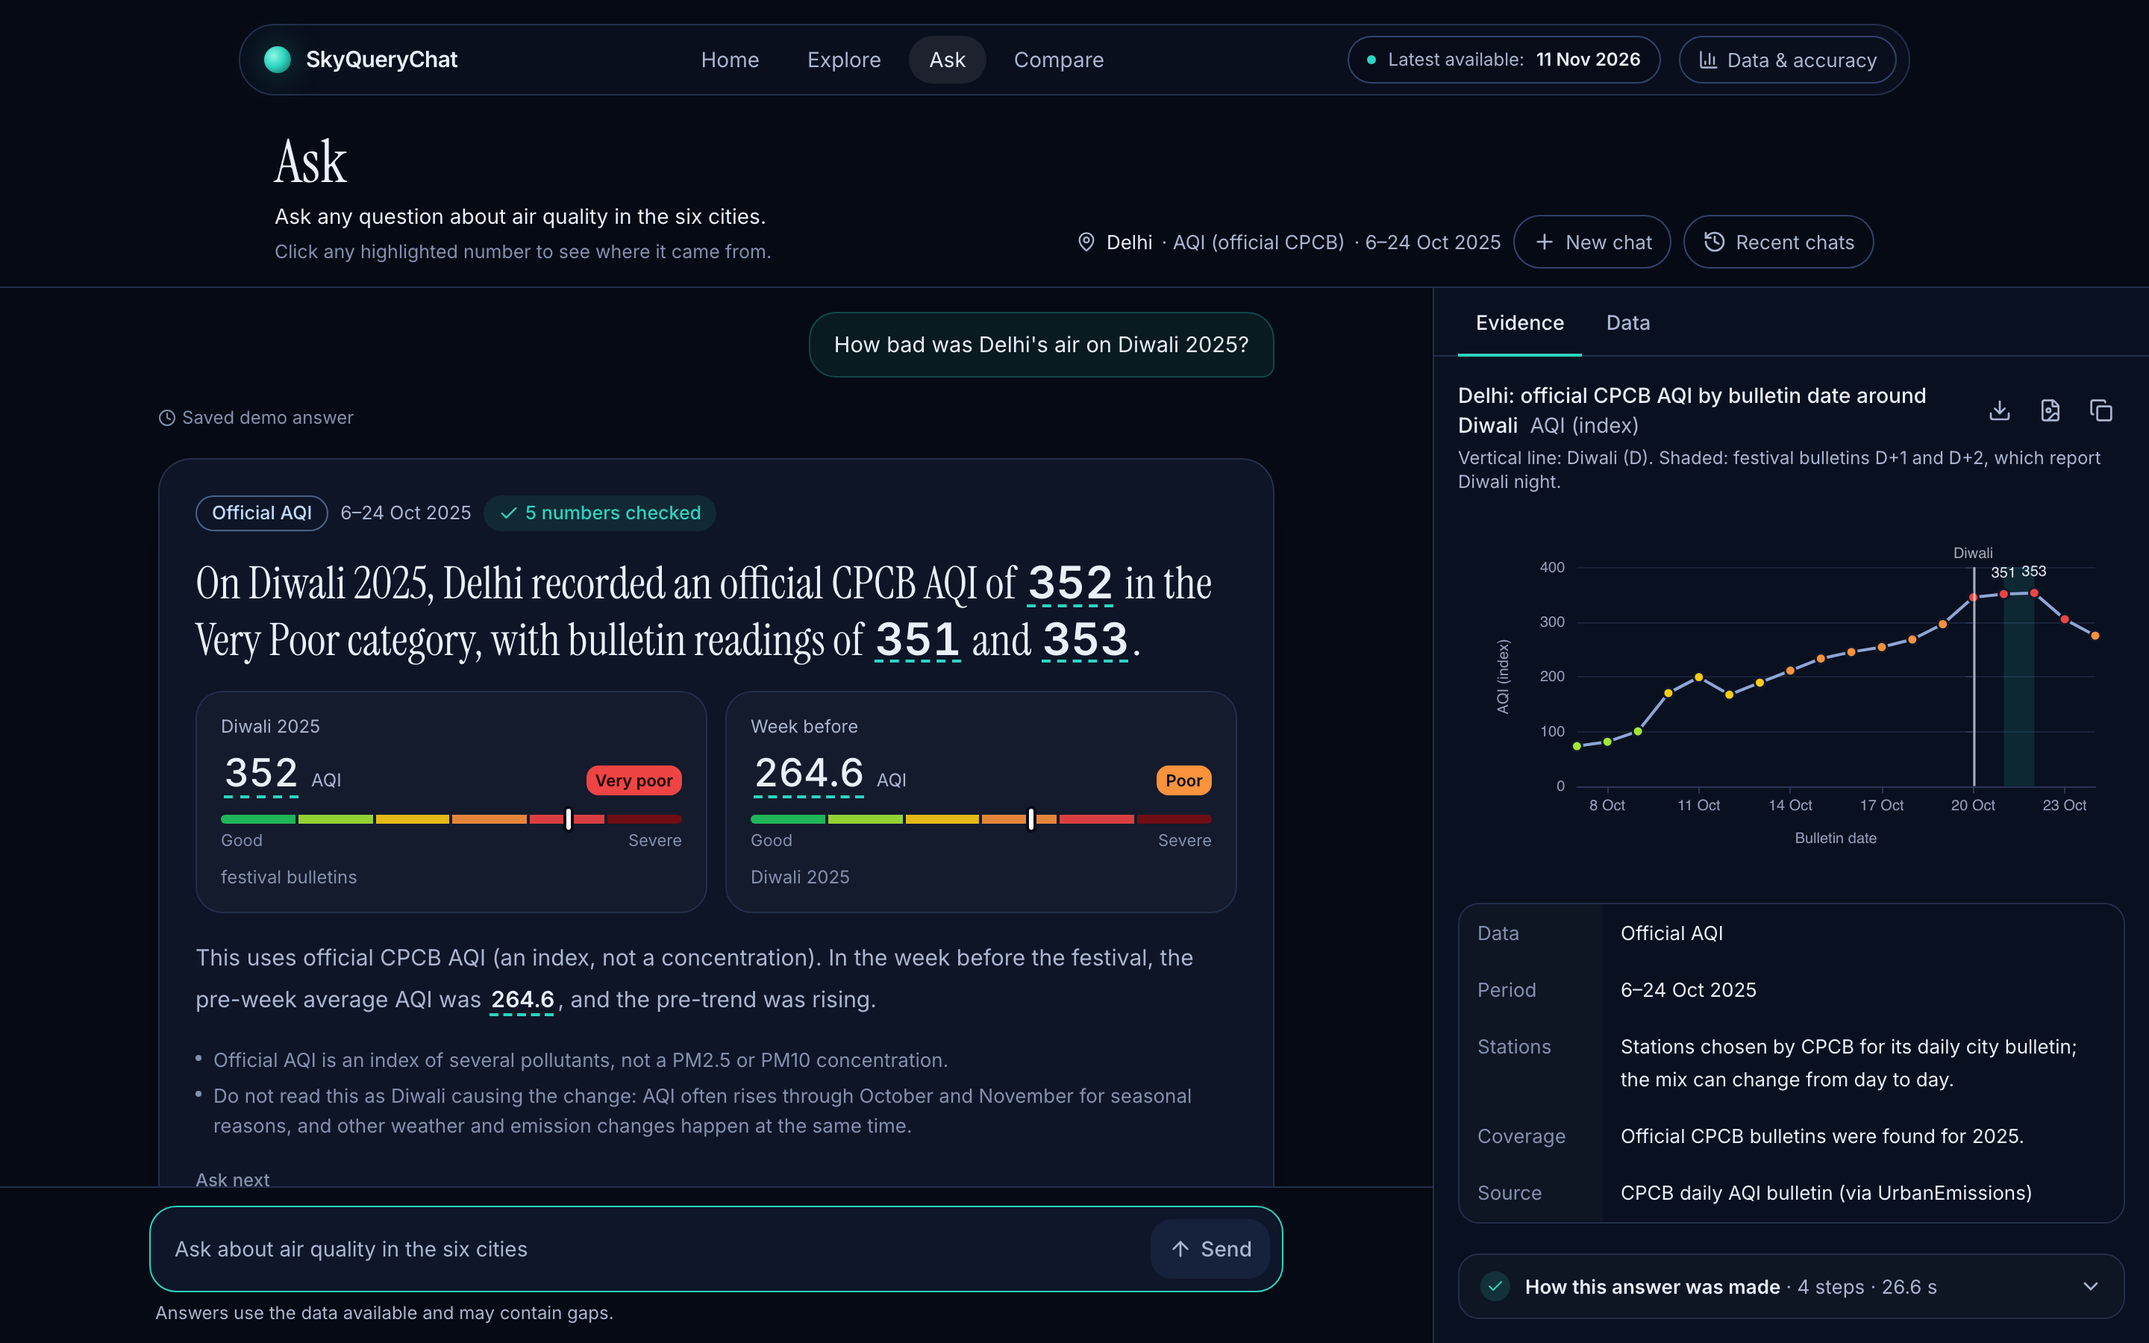
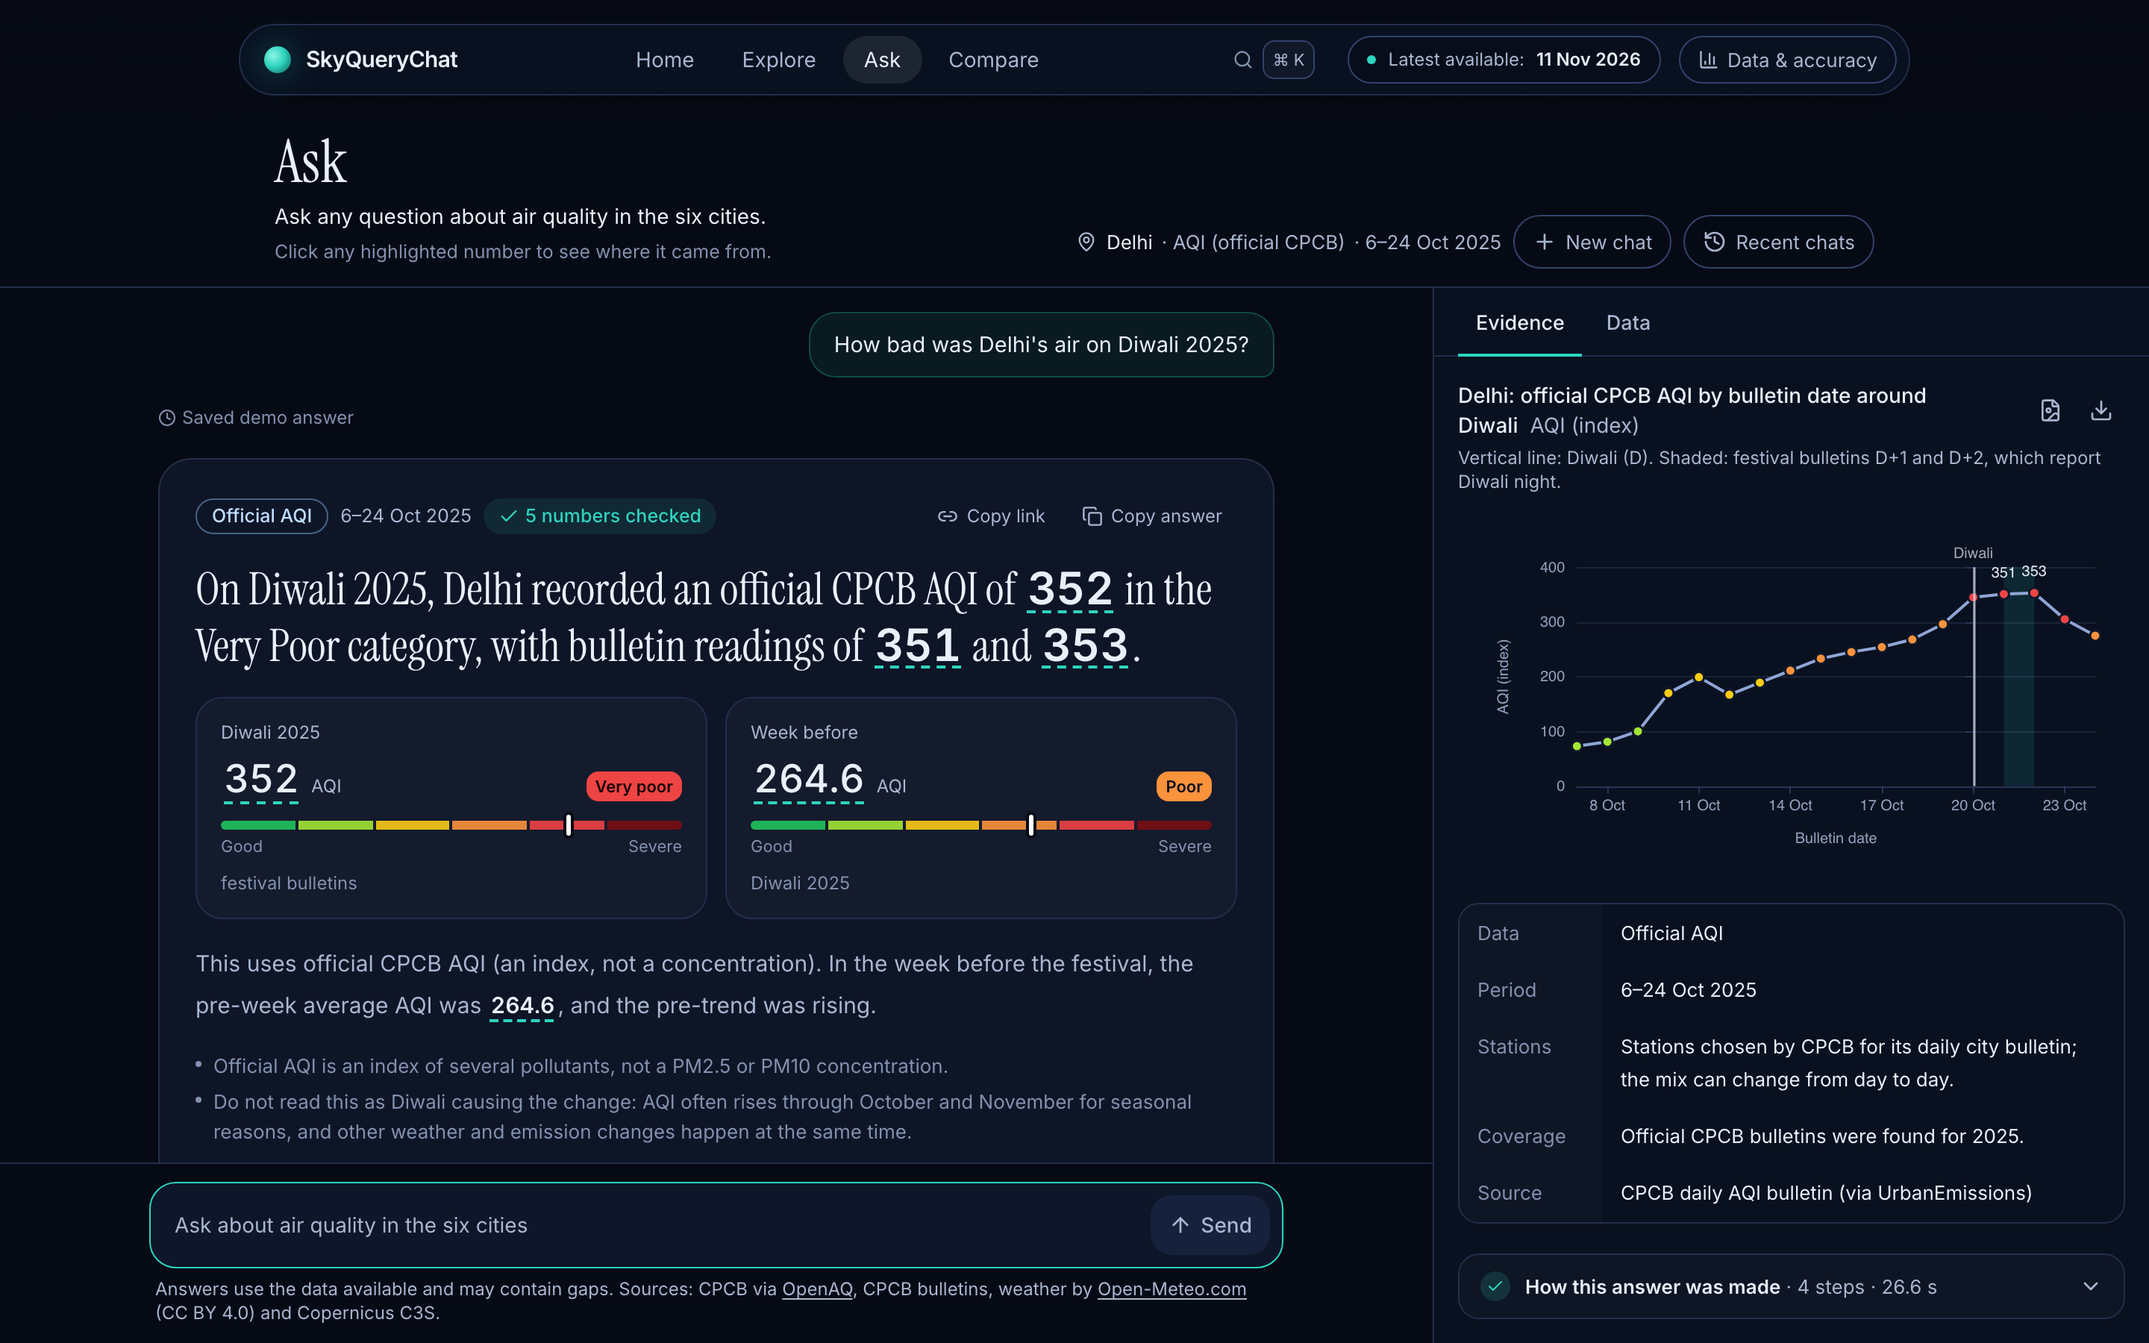
Polish the review findings, keep Home light on load and refresh the screenshots and README

diff --git a/frontend/src/components/explore/explore-map.tsx b/frontend/src/components/explore/explore-map.tsx
@@ -16,6 +16,13 @@ import type { ExploreData } from "@/lib/types";
 import { shortName } from "./panels";
 
 type Pad = { top: number; bottom: number; left: number; right: number };
+
+/** Padding that always leaves room on the canvas (MapLibre refuses to fit, and stays put, when padding exceeds it). */
+function fitPad(p: Pad, w: number, h: number, room = 120): Pad {
+  const sy = Math.min(1, Math.max(0, h - room) / Math.max(1, p.top + p.bottom));
+  const sx = Math.min(1, Math.max(0, w - room) / Math.max(1, p.left + p.right));
+  return { top: Math.floor(p.top * sy), bottom: Math.floor(p.bottom * sy), left: Math.floor(p.left * sx), right: Math.floor(p.right * sx) };
+}
 const EMPTY: GeoJSON.FeatureCollection = { type: "FeatureCollection", features: [] };
 const FONT = ["Noto Sans Regular"]; // the font the basemap's own labels use
 
@@ -55,7 +62,7 @@ export function ExploreMap({ data, day, pollutant, city, station, highlight, low
         maplibregl.setWorkerUrl(WORKER_URL);
         lib.current = maplibregl;
         const m = new maplibregl.Map({
-          container: node, style, bounds: INDIA_BOUNDS, fitBoundsOptions: { padding }, attributionControl: false,
+          container: node, style, bounds: INDIA_BOUNDS, fitBoundsOptions: { padding: fitPad(padding, node.clientWidth, node.clientHeight) }, attributionControl: false,
           dragRotate: false, pitchWithRotate: false, touchPitch: false, fadeDuration: 0, minZoom: 3, maxZoom: 14,
         });
         m.touchZoomRotate.disableRotation();
@@ -149,14 +156,14 @@ export function ExploreMap({ data, day, pollutant, city, station, highlight, low
     if (ready !== "ready" || !m || !data) return;
     const duration = reduceMotion ? 0 : 1600;
     if (!city) {
-      m.fitBounds(INDIA_BOUNDS, { padding, duration });
+      m.fitBounds(INDIA_BOUNDS, { padding: fitPad(padding, m.getContainer().clientWidth, m.getContainer().clientHeight), duration });
       return;
     }
     const st = cityStations(data, city, lowCost);
     if (!st.length) return;
     const lons = st.map((s) => s.lon), lats = st.map((s) => s.lat);
     m.fitBounds([[Math.min(...lons), Math.min(...lats)], [Math.max(...lons), Math.max(...lats)]],
-      { padding, duration, maxZoom: 12.5, essential: true });
+      { padding: fitPad(padding, m.getContainer().clientWidth, m.getContainer().clientHeight), duration, maxZoom: 12.5, essential: true });
     // eslint-disable-next-line react-hooks/exhaustive-deps
   }, [ready, city, lowCost, data?.pollutant]);
 

diff --git a/frontend/src/components/home/india-map.tsx b/frontend/src/components/home/india-map.tsx
@@ -121,11 +121,15 @@ export function IndiaMap({ cities, date, className }: { cities: LatestCity[]; da
       }
     }
 
+    // The basemap starts on the visitor's first interaction, or after a few quiet seconds, so the first view stays
+    // light; the official outline is already on screen meanwhile.
     function idle() {
       return new Promise<void>((done) => {
-        const go = () => ("requestIdleCallback" in window ? window.requestIdleCallback(() => done(), { timeout: 4000 }) : setTimeout(done, 1500));
-        if (document.readyState === "complete") setTimeout(go, 1200);
-        else window.addEventListener("load", () => setTimeout(go, 1200), { once: true });
+        const evs = ["pointermove", "pointerdown", "scroll", "keydown", "touchstart", "wheel"] as const;
+        let t = 0;
+        const go = () => { clearTimeout(t); evs.forEach((e) => window.removeEventListener(e, go)); done(); };
+        evs.forEach((e) => window.addEventListener(e, go, { once: true, passive: true }));
+        t = window.setTimeout(go, 6500);
       });
     }
 
@@ -169,7 +173,8 @@ export function IndiaMap({ cities, date, className }: { cities: LatestCity[]; da
   return (
     <div ref={wrap} className={cn("relative overflow-hidden", className)} data-map={mode}>
       {/* MapLibre styles its container as position: relative, so the canvas sits in a sized wrapper. */}
-      <div className="absolute inset-0" aria-hidden>
+      {/* not aria-hidden: the map credits ("ⓘ") live inside; the canvas itself is not focusable here */}
+      <div className="absolute inset-0">
         <div ref={canvas} className="h-full w-full" />
       </div>
       {mode === "loading" && <p className="absolute inset-0 grid place-items-center text-xs text-faint">Loading map</p>}

diff --git a/frontend/src/components/explore/explore-screen.tsx b/frontend/src/components/explore/explore-screen.tsx
@@ -143,8 +143,10 @@ export function ExploreScreen() {
   }, [phone, station]);
   // Fit stations clear of the panels: left panel, station panel (kept free whenever a city is open, so opening a
   // station never hides another one) and the timeline at the bottom.
+  // phones: keep stations above the sheet (collapsed, or half open once a station is chosen)
+  const vh = typeof window === "undefined" ? 800 : window.innerHeight;
   const padding = phone
-    ? { top: 120, bottom: 230, left: 28, right: 28 }
+    ? { top: 120, bottom: station ? Math.round(vh * 0.55) + 16 : 230, left: 28, right: 28 }
     : { top: 100, bottom: 120, left: 420, right: city ? 420 : 60 };
 
   const loading = !data && !failed;
@@ -167,7 +169,7 @@ export function ExploreScreen() {
     </div>
   );
   const time = data && date && (
-    <TimeControl dates={dates} day={i} onDay={pickDay} playing={playing} onPlay={togglePlay} canPlay={!reduce} compact={phone}
+    <TimeControl dates={dates} day={i} onDay={pickDay} playing={playing} onPlay={togglePlay} canPlay={!reduce} compact={phone || !!stationObj}
       speed={speed} onSpeed={setSpeed}
       series={city ? [{ colour: "#2DD4BF", values: data.cities[city]?.values ?? [] }]
         : Object.entries(data.cities).map(([c, v]) => ({ colour: CITY_COLOURS[c] ?? "#94A0BC", values: v.values }))} />

diff --git a/frontend/src/components/shell/data-panel.tsx b/frontend/src/components/shell/data-panel.tsx
@@ -29,6 +29,7 @@ const SOURCES: { k: string; v: string; licence: string; href: string }[] = [
   { k: "Measured PM2.5 and PM10", v: "CPCB reference monitors (and a few AirNow and AirGradient sensors), via the OpenAQ archive", licence: "licence set by each data provider", href: "https://openaq.org" },
   { k: "Official AQI", v: "CPCB daily city bulletins at 4 PM, via UrbanEmissions and cpcb.gov.in", licence: "GODL-India", href: "https://cpcb.gov.in/AQI_Bulletin.php" },
   { k: "Delhi PM, Diwali 2024 and 2025", v: "OpenCity Delhi station files (supporting context only)", licence: "public domain", href: "https://data.opencity.in" },
+  { k: "Health notes", v: "CPCB's official health statement for each category, from the daily AQI bulletin (“Health Statements for AQI Categories”)", licence: "CPCB", href: "https://cpcb.nic.in/AQI_Bulletin.php" },
   { k: "Weather (modelled)", v: "Open-Meteo, reanalysis from Copernicus C3S", licence: "CC BY 4.0", href: "https://open-meteo.com" },
 ];
 

diff --git a/frontend/src/components/home/home-screen.tsx b/frontend/src/components/home/home-screen.tsx
@@ -62,7 +62,7 @@ export function HomeScreen() {
             <strong className="font-semibold text-foreground">PM2.5{latest ? `, ${fmtDate(latest.date)}` : ""}</strong> · 24-hour city average, µg/m³
           </p>
           <div className="relative aspect-[10/11] sm:aspect-auto sm:h-[600px] lg:h-[min(640px,calc(100dvh-170px))]">
-            <div aria-hidden className="pointer-events-none absolute inset-[-6%] bg-[radial-gradient(ellipse_52%_50%_at_50%_50%,rgba(45,212,191,0.13),rgba(30,64,120,0.10)_45%,transparent_72%)]" />
+            <div aria-hidden className="pointer-events-none absolute inset-y-[-6%] inset-x-0 lg:inset-x-[-6%] bg-[radial-gradient(ellipse_52%_50%_at_50%_50%,rgba(45,212,191,0.13),rgba(30,64,120,0.10)_45%,transparent_72%)]" />
             {latest ? (
               <IndiaMap cities={latest.cities} date={latest.date} className="sq-home-map absolute inset-0" />
             ) : (

diff --git a/frontend/src/components/explore/panels.tsx b/frontend/src/components/explore/panels.tsx
@@ -137,9 +137,16 @@ export function TimeControl({ dates, day, onDay, playing, onPlay, canPlay, speed
     </div>
   );
   if (compact) {
+    // narrow bar (phones, or the station panel is open): caption over the date, play and speed beside it
     return (
       <div className="flex flex-col gap-1.5">
-        <div className="flex items-center justify-between gap-3">{label}{play}</div>
+        <div className="flex items-center justify-between gap-3">
+          <p className="min-w-0 leading-tight" aria-live="polite">
+            <span className="block text-[11px] text-faint">{last ? "Latest available" : "Showing"}</span>
+            <strong className="num block truncate text-[15px] font-semibold">{fmtDate(dates[day])}</strong>
+          </p>
+          {play}
+        </div>
         {slider}
       </div>
     );

diff --git a/frontend/src/components/shell/app-shell.tsx b/frontend/src/components/shell/app-shell.tsx
@@ -148,7 +148,7 @@ function QuickAskHint() {
   // eslint-disable-next-line react-hooks/set-state-in-effect
   useEffect(() => setMac(isMac()), []);
   return (
-    <button type="button" onClick={open} aria-label={`Quick ask (${mac ? "Command" : "Control"} K)`}
+    <button type="button" onClick={open} aria-label={`Quick ask ${mac ? "⌘" : "Ctrl"} K`} title="Quick ask"
       className="hidden h-8 items-center gap-1.5 rounded-full px-2.5 text-[12px] text-faint transition-colors hover:text-foreground xl:inline-flex">
       <Search className="size-3.5" aria-hidden />
       <kbd className="rounded-md border border-line-strong bg-white/[0.03] px-1.5 py-px font-sans text-[11px] text-subtle">{mac ? "⌘" : "Ctrl"} K</kbd>

diff --git a/frontend/e2e/data-panel.spec.ts b/frontend/e2e/data-panel.spec.ts
@@ -12,6 +12,7 @@ test("data & accuracy panel", async ({ page }) => {
   await expect(panel.getByText(/^\d+\/\d+$/).first()).toBeVisible();
   await expect(panel.getByText("8/8 (after fixing a trend-wording bug found in a first run of 5/8)")).toBeVisible();
   await expect(panel.getByText(/Survey of India/)).toBeVisible();
+  await expect(panel.getByText(/Health Statements for AQI Categories/)).toBeVisible();
   await expect(panel.getByText("GODL-India")).toBeVisible();
   const text = await panel.innerText();
   expect(text).not.toMatch(/combined|rerun|\d{4}-\d{2}-\d{2}|\blive\b/i);   // first-pass only, readable dates

diff --git a/README.md b/README.md
@@ -4,30 +4,40 @@
 
 **Live:** https://sky-query-chat.vercel.app · Delhi, Mumbai, Kolkata, Chennai, Bengaluru and Hyderabad · PM2.5, PM10 and official AQI
 
-![Home: the latest available PM2.5 for six cities on a map](docs/screenshots/home-desktop.png)
+![Home: the latest available PM2.5 for six cities on a map](docs/screenshots/home-top-desktop.png)
 
-| Ask, with proof | Explore | City page | Compare |
-|---|---|---|---|
-| ![Ask answer and proof](docs/screenshots/ask-proof-desktop.png) | ![Explore Delhi with a station open](docs/screenshots/explore-delhi-station-desktop.png) | ![Delhi city page](docs/screenshots/city-delhi-desktop.png) | ![Compare cities](docs/screenshots/compare-desktop.png) |
+| Ask, with proof | Explore | City page |
+|---|---|---|
+| ![Ask answer and the proof of one number](docs/screenshots/ask-proof-desktop.png) | ![Explore Delhi with a station open](docs/screenshots/explore-delhi-station-desktop.png) | ![Delhi city page](docs/screenshots/city-delhi-desktop.png) |
+| **Compare** | **Quick ask (⌘K / Ctrl+K)** | **On a phone** |
+| ![Compare cities over the same dates](docs/screenshots/compare-desktop.png) | ![Quick ask box](docs/screenshots/quick-ask-desktop.png) | ![Explore on a phone](docs/screenshots/explore-delhi-station-mobile.png) |
 
 ## Features
 
-- **Home:** the latest available 24-hour PM2.5 for each city on a map of India, ranked, with a 7-day sparkline.
+- **Home:** the latest available 24-hour PM2.5 for each city on a map of India, ranked, with a 7-day sparkline, the
+  change from the previous day ("▲ 17.3 vs 10 Nov", only when that day has a value) and CPCB's official health
+  statement for the category on hover or focus.
 - **Ask:** type a question in plain words. The answer comes with a chart, an evidence table and the agent's steps.
-  Click any highlighted number to see where it came from: the rows or bulletins used, the formula, the source and
-  the check.
-- **Explore:** every monitoring station on a map, with 30 days of daily values, a play button and a station panel.
-  Low-cost sensors are shown separately.
+  - Click any highlighted number to see where it came from: the rows or bulletins used, the formula, the source and
+    the check.
+  - Copy a link that reopens the question, copy the answer as text, and download the chart (PNG) or its data (CSV).
+- **Quick ask:** ⌘K or Ctrl+K opens a small question box from any page.
+- **Explore:** every monitoring station on a map, with 30 days of daily values. Low-cost sensors are shown separately.
+  - A slim timeline with a mini chart of the daily averages and a Diwali marker; play the last 30 days at 1× or 2×.
+  - Search any station by name across the six cities.
+  - The station panel shows CPCB's health statement.
 - **City pages** (`/city/delhi` and the other five cities):
-  - the latest value and a 30-day trend with significance
+  - the latest value, the change from the previous day, CPCB's health statement and a 30-day trend with significance
   - a calendar heatmap and Diwali AQI from CPCB's 4 PM bulletins
   - unusual days with the reason each was flagged
   - a weather association with a fitted line, and every station with its coverage
+  - copy link and download data (CSV)
 - **Compare:** 2–6 cities over the same dates, for PM2.5, PM10 or official AQI:
   - daily lines and a ranking with 95% range bars
   - "too close to call" when the ranges overlap
-  - a trend for each city and a warning when coverage is low
-  - the selection is kept in the link
+  - a trend for each city (periods under 90 days give the total change over the period) and a warning when coverage
+    is low
+  - the selection is kept in the link; copy link and download data (CSV)
 - **Data & accuracy panel:** sources and licences, coverage, the latest date, first-pass test scores, the CPCB
   cross-check and known limits.
 
@@ -97,9 +107,9 @@ and the scoreboard is `evals/scoreboard.json`.
 - **Agent:** Pydantic AI with Gemini 3.5 Flash-Lite, falling back to Gemini 3.1 Flash Lite and then Gemini 3.8
   Flash. One shared quota limiter serves all visitors.
 - **Tests:**
-  - 269 backend tests
+  - 276 backend tests
   - 61 frontend unit tests
-  - 77 Playwright tests (including axe accessibility checks)
+  - 90 Playwright tests (including axe accessibility checks)
   - live evaluation sets (above)
 
 ## Run locally

diff --git a/CLAUDE.md b/CLAUDE.md
@@ -453,6 +453,27 @@ Rules:
 - Memory (Linux amd64 container, 512 MB, 0.1 CPU): peak 305 MiB after every data, city and compare endpoint. The first
   city page takes about 15 s there under emulation (0.36 s natively), then it is cached.
 
+### Final UI touches (main, 2026-11-13)
+
+- Nav: frosted, mostly opaque pill plus a fade band behind it. Map credits: MapLibre's compact attribution ("ⓘ",
+  collapsed at start; top right on phones) built from `CREDIT_ITEMS` / `CREDITS_HTML` in `src/lib/map-base.ts`; the
+  basemap's own attribution is removed so nothing is listed twice; the same list is in the Data & accuracy panel.
+- Home map has no box: glow behind India, edges faded by a CSS mask on the canvas only (never on markers or credits).
+  The basemap loads on the first interaction or after 6.5 s (official outline drawn at once): Lighthouse Home 99/100/100/100.
+- Explore: no zoom buttons; Mumbai's label left of its dot (as Home); slim timeline ("Showing <date>", "Latest
+  available" on the last day, "Play last 30 days", 1x/2x, mini chart of daily averages, Diwali marker); station search;
+  map padding is clamped to the canvas (MapLibre refuses to fit, and stays at the world origin, when padding is too big).
+- Trends under 90 days are the total change over the period (`change_over_period` = Sen's slope per day x (days - 1)),
+  with "Short periods include seasonal change."; the agent field is `trend_change_over_period`. Time-axis labels always
+  carry the month.
+- Day-over-day change is calculated in Python (`/api/latest` `change`, from the displayed one-decimal values, only when
+  the previous calendar day has a value). CPCB health statements: `src/lib/health.ts`, verbatim from the bulletin's
+  "Health Statements for AQI Categories".
+- Evaluation quota guard (`backend/agent/eval_guard.py`, called by `scripts/run_eval.py`): counts today's evaluation runs
+  (since midnight Pacific) plus the live server's `/api/quota` visitor use, refuses to start when the run would pass the
+  public caps, and seeds the shared limiter (`ProviderQuota.seed`). The live counter resets on a server restart.
+- Lazily loaded components do not forward refs: the chart handle for PNG export is a plain `handle` prop.
+
 ## 6. UI requirements
 
 Premium, dark, responsive AI analytics SaaS interface:
